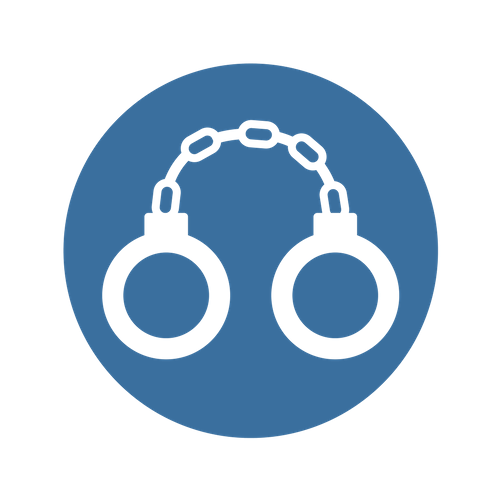
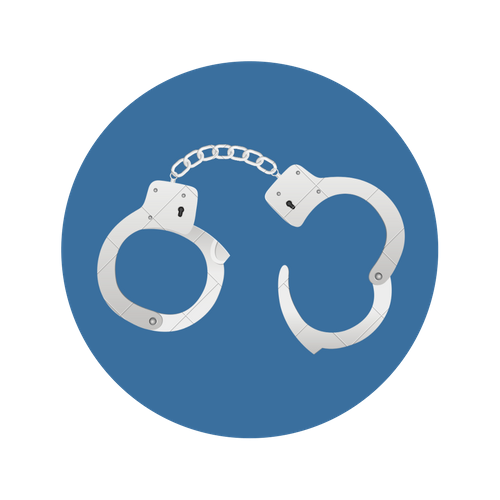
no cache

diff --git a/button.js b/button.js
@@ -28,13 +28,13 @@
     function arrestButtonElement() {
         return $('<span/>', {
             css: config.arrest_button.css
-        }).html('Make an arrest');
+        });
     }
 
     function releaseButtonElement() {
         return $('<span/>', {
             css: config.release_button.css
-        }).html('Release');
+        });
     }
 
     function addEventListeners() {
@@ -110,16 +110,14 @@
     'arrest_button': {
         'css': {
             'border-radius': '3px',
-            'text-indent': '20px',
             'width': 'auto',
             'padding': '0 4px 0 0',
             'text-align': 'center',
             'font': '11px/20px "Helvetica Neue", Helvetica, sans-serif',
             'font-weight': 'bold',
-            // 'color': '#fff',
-            // 'background-color': '#005CB9',
-            'background-size': '20px 20px',
-            'background-image': 'url(' + chrome.extension.getURL('arrest-btn-2.png') + ')',
+            'background-size': '75px 75px',
+            'padding': '40px',
+            'background-image': 'url(' + chrome.extension.getURL('arrest-btn.png') + ')',
             'background-repeat': 'no-repeat',
             // extra stuff for extensions only
             'position': 'absolute',
@@ -135,16 +133,14 @@
     'release_button': {
         'css': {
             'border-radius': '3px',
-            'text-indent': '20px',
             'width': 'auto',
             'padding': '0 4px 0 0',
             'text-align': 'center',
+            'padding': '40px',
             'font': '11px/20px "Helvetica Neue", Helvetica, sans-serif',
             'font-weight': 'bold',
-            'color': '#fff',
-            'background-color': 'green',
-            'background-size': '20px 20px',
-            'background-image': 'url(' + chrome.extension.getURL('arrest-btn.png') + ')',
+            'background-size': '75px 75px',
+            'background-image': 'url(' + chrome.extension.getURL('release-btn.png') + ')',
             'background-repeat': 'no-repeat',
             // extra stuff for extensions only
             'position': 'absolute',

diff --git a/content.js b/content.js
@@ -1,4 +1,4 @@
-(function (window, button, elementTagger, apiClient) {
+(function (window, button, elementTagger, elementWatcher, apiClient) {
     function getRandomToken() {
         var randomPool = new Uint8Array(32);
         crypto.getRandomValues(randomPool);
@@ -12,19 +12,22 @@
     chrome.storage.sync.get('userid', function(items) {
         var userid = items.userid;
         if (userid) {
+            console.log("id found: " + userid);
             initialize(userid);
         } else {
             userid = getRandomToken();
-            chrome.storage.sync.set({ userid: userid }, function() {
-                initialize(userid);
+            chrome.storage.sync.set({ userid: userid }, function(items) {
+                console.log("in setting " + userid);
+                initialize(items.userid);
             });
         }
     });
 
     function initialize(userid) {
         apiClient.initialize(userid);
-        button.initialize();
+        elementWatcher.initialize();
         elementTagger.initialize();
+        button.initialize();
     }
 })(
     window,

diff --git a/api-client.js b/api-client.js
@@ -12,6 +12,7 @@
     var endpoint = "https://synthetic-diode-621.appspot.com";
 
     function initialize(userid) {
+        console.log("apiClient initialing with " + userid);
         userId = userid;
     }
 
@@ -43,7 +44,7 @@
 
     function getTaggedByHostnameRequest(responseHandler) {
         var xhr = new XMLHttpRequest();
-        var params = "hostname=" + encodeURIComponent(window.location.hostname);
+        var params = defaultParams().concat(["&hostname=" + encodeURIComponent(window.location.hostname)]).join('');
         xhr.open("GET", endpoint + "/flagged-items?" + params, true);
         xhr.onreadystatechange = function() {
           if (xhr.readyState == 4 && xhr.status == 200) {
@@ -54,7 +55,9 @@
     }
 
     function defaultParams() {
-        return ['userid=' + userId];
+        console.log("defautl params");
+        console.log(userId);
+        return ['userid=' + userId, '&cache=' + (new Date().getTime())];
     }
 
 })(window, $);

diff --git a/element-tagger.js b/element-tagger.js
@@ -169,7 +169,7 @@
     },
     'overlay_img': {
         'class': 'pp-overlay',
-        'src': chrome.extension.getURL("prison-cell-bars.png"),
+        'src': chrome.extension.getURL("cage.png"),
         'css': {
             'position': 'absolute'
         }
